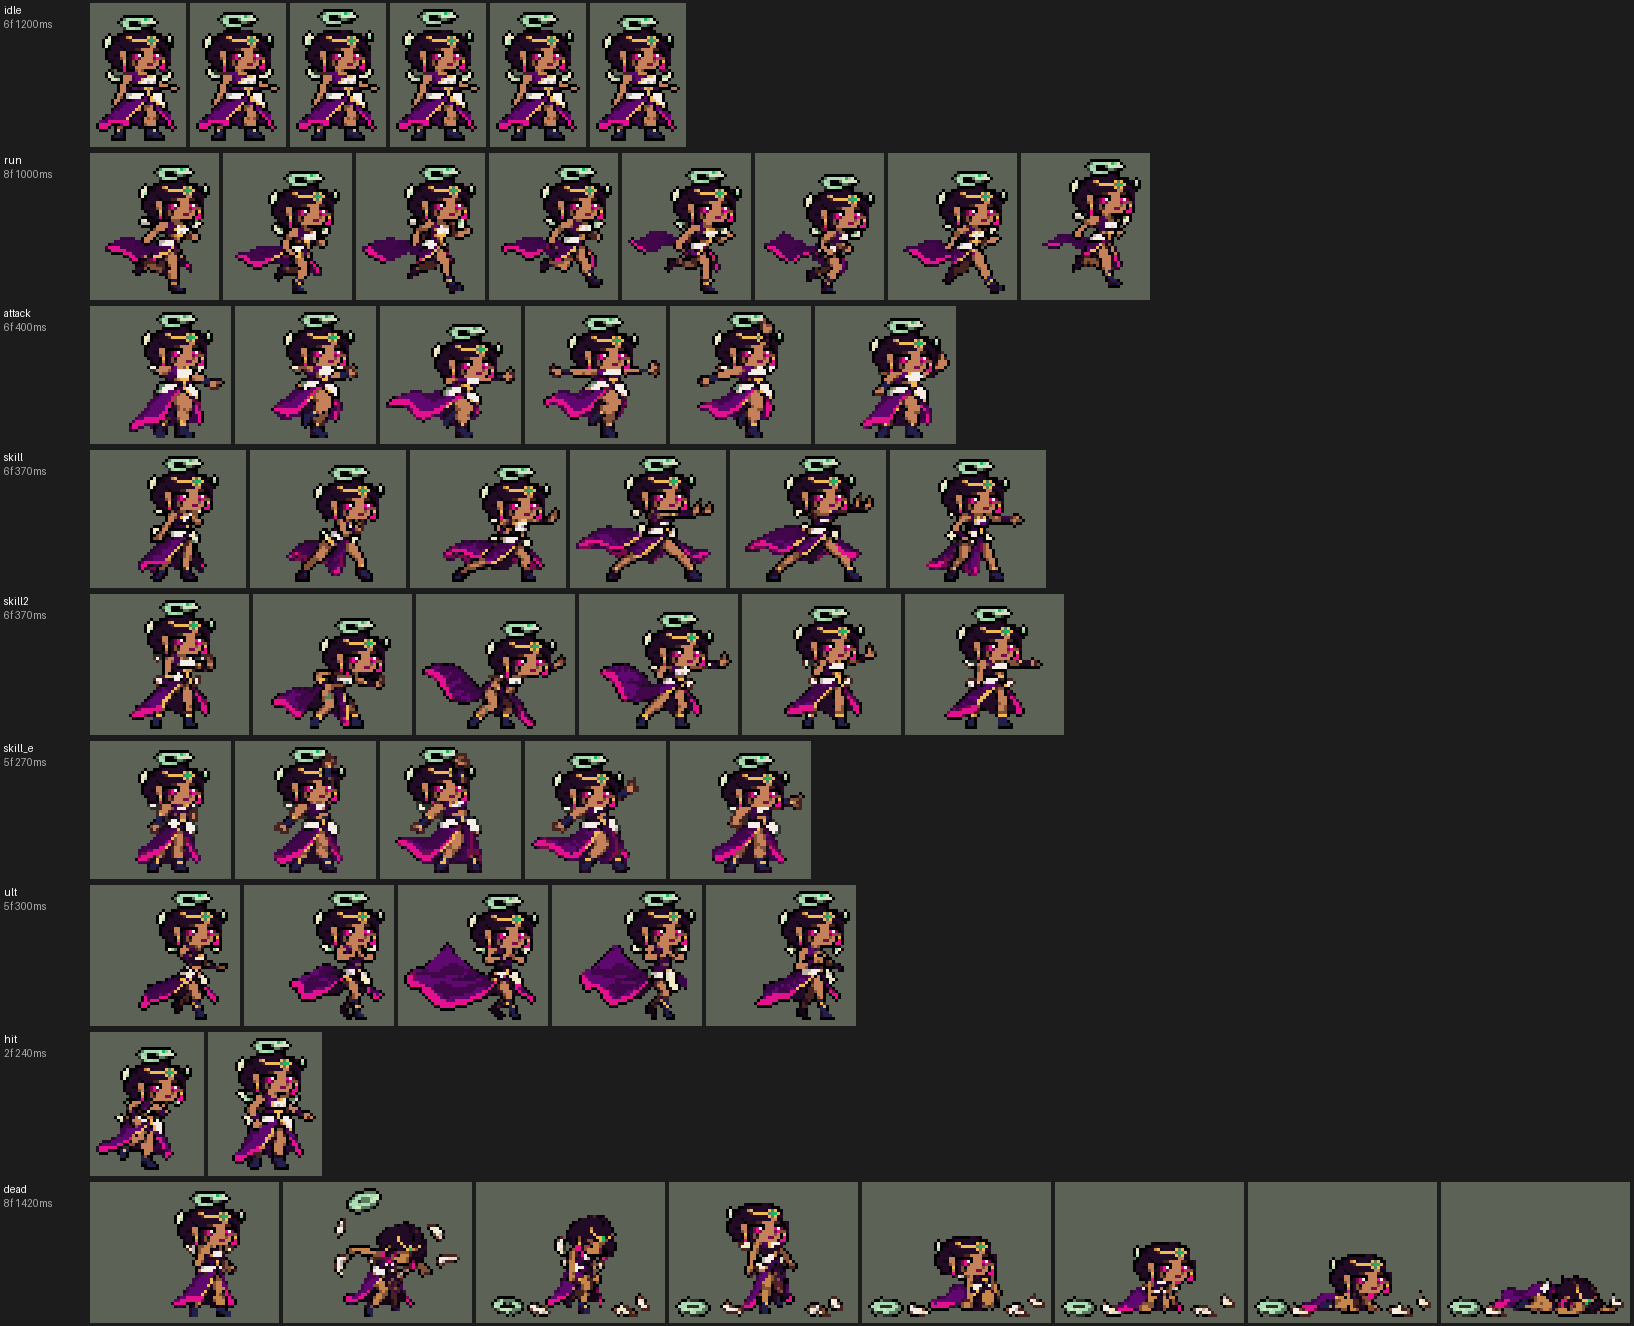
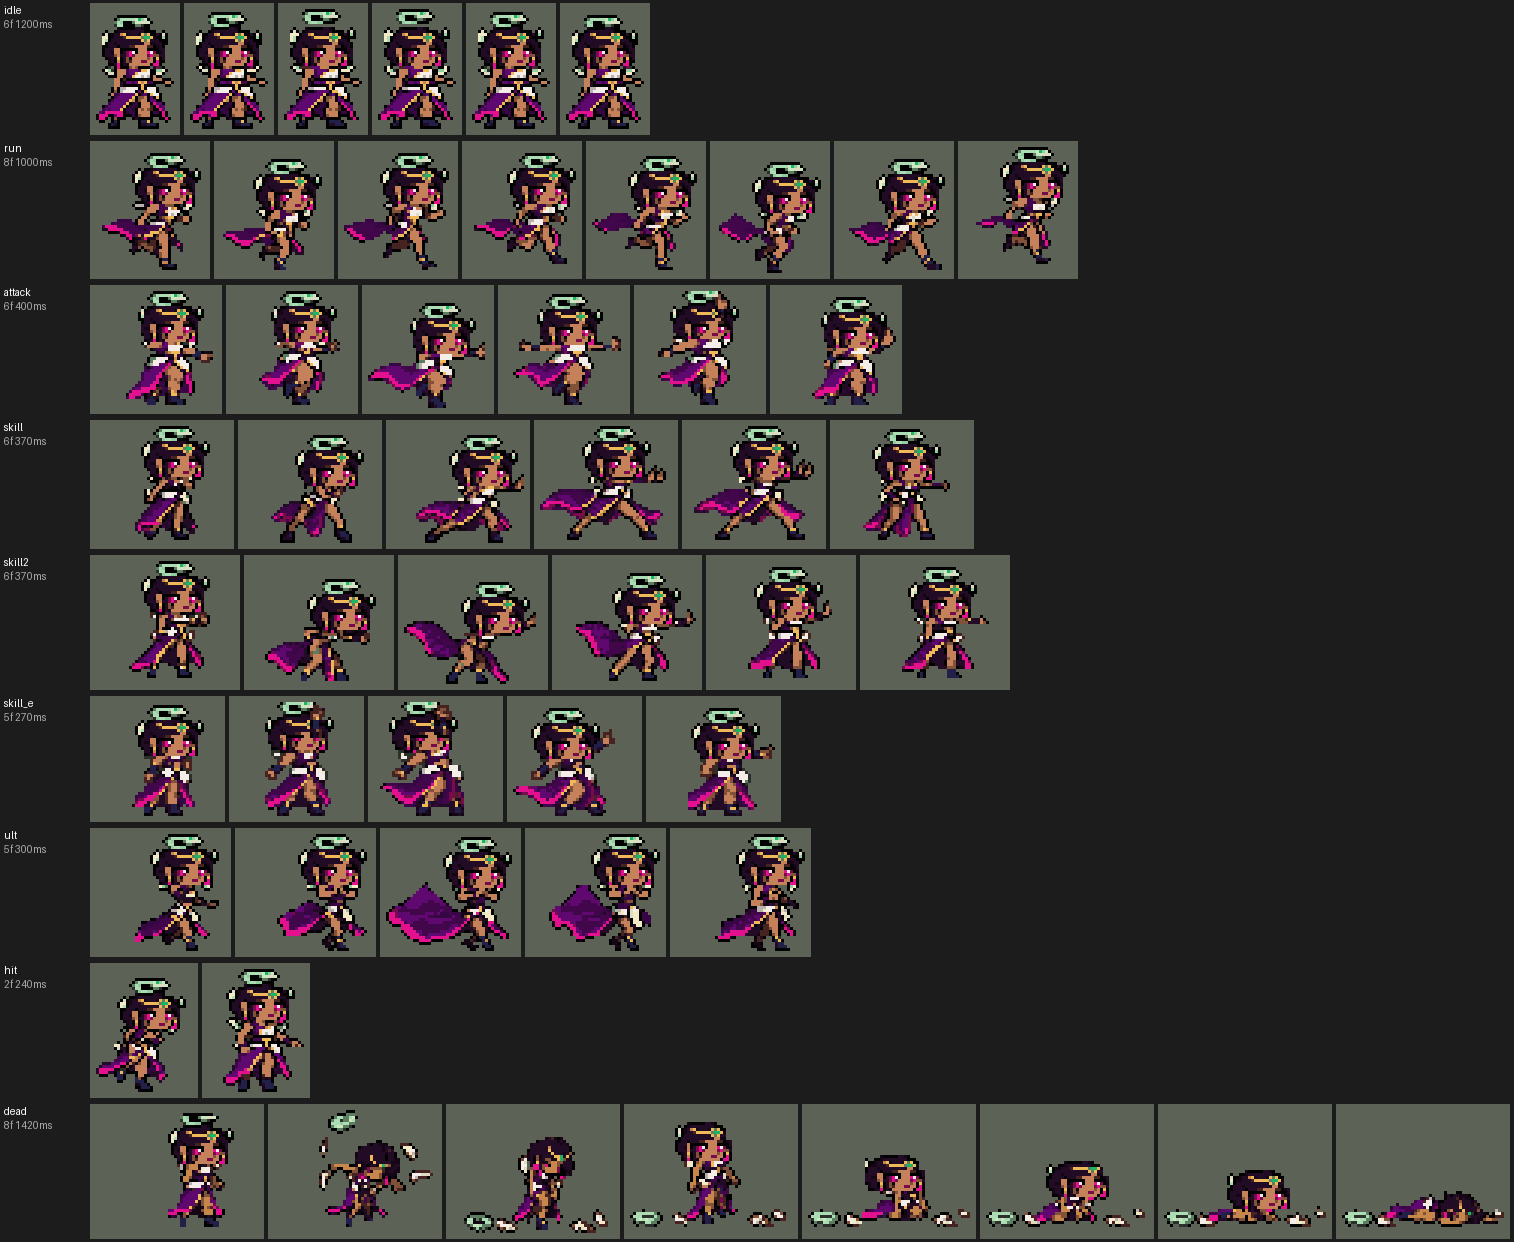
league_karma: 90% size (the user: 卡尔玛体型可以变小一点)
import_native.py SHRINK karma 0.9 (whole rows/cols out, eyes-to-chin and hands kept,
anchored on the gem); idle 42 -> 38 px; face (1,-31), banpick_center -10.

Changed region(s): [[0.0, 0.0, 0.9934, 1.0], [0.8692, 0.8873, 0.9003, 0.9179], [0.745, 0.8873, 0.7761, 0.9179]]

diff --git a/tools/art/import_native.py b/tools/art/import_native.py
@@ -652,17 +652,17 @@ TIDY = {"ahri": "clean_ahri", "janna": "clean_janna", "morgana": "clean_morgana"
 # before it breathes. A hero whose strips a rig builds from the design shrinks the design there instead (rig_xinzhao.py
 # SCALE: cut from finished frames a diagonal spear's 1:2 shaft got uneven steps); SHRINK_KEEP: skin colours (hands)
 # no line may cross, "!RRGGBB+up,down,left,right" a box no line may cross
-SHRINK = {"xerath": 0.9, "renekton": 0.9, "twitch": 0.85}      # players (2026-10-08): 「泽拉斯 ... 体型偏大」「鳄鱼体型也偏大了」
+SHRINK = {"xerath": 0.9, "renekton": 0.9, "twitch": 0.85, "karma": 0.9}      # players (2026-10-08): 「泽拉斯 ... 体型偏大」「鳄鱼体型也偏大了」; karma: the user 10-09 「卡尔玛体型可以变小一点」 (90% of 90/85)
 # no line through Xerath's face (his eyes' white-hot core) or Renekton's (his yellow eyes to his red jaw)
 # "=RRGGBB": no row through a square of that colour (Renekton's blue knee guards: a row through them halved the guard
 # and shifted his leg's stripes - 「这里是像素缺失吗」「在左脚啊」); not in his death, where the lying body's blue made
 # every low row "knee" and the cut fell on his head
-SHRINK_KEEP = {"xerath": ["!FBFCFC"], "twitch": ["#FBFDF7", "!F94714+3,0,1,1"], "renekton": ["!F9D206+2,1,2,2", "!A8161F", "=0218B2", "=010E84"]}
-SHRINK_KEEP_TAG = {"renekton": {"dead": ["!F9D206+2,1,2,2", "!A8161F"]}}
+SHRINK_KEEP = {"karma": ["!1BB663+-10,9,8,8", "C4815A", "825238"], "xerath": ["!FBFCFC"], "twitch": ["#FBFDF7", "!F94714+3,0,1,1"], "renekton": ["!F9D206+2,1,2,2", "!A8161F", "=0218B2", "=010E84"]}
+SHRINK_KEEP_TAG = {"karma": {"dead": ["!1BB663+-3,9,8,8", "C4815A", "825238"]}, "renekton": {"dead": ["!F9D206+2,1,2,2", "!A8161F"]}}
 # the lines follow the body from frame to frame, anchored on a colour only one feature has: cut at fixed canvas lines,
 # a cast or an attack that moves him took different lines of him in each frame - 「缩小后放技能的时候模型有点变形」
 # 「攻击时候也是」
-SHRINK_ANCHOR = {"xerath": "FBFCFC", "twitch": "FBFDF7", "renekton": "F9D206"}
+SHRINK_ANCHOR = {"karma": "1BB663", "xerath": "FBFCFC", "twitch": "FBFDF7", "renekton": "F9D206"}
 CROWN = {"leesin"}              # heroes whose head template starts at the crown (a braid stands above it)
 PASTED = {"masteryi"}            # steadied on the head restyle_native pasted: his raised sword is the top of every frame
 # Codex's step-2 redraw (model_strips_18, tidied by tidy_codex18.py): the approved design's head (or face) is in every

diff --git a/tools/kit/setup_karma.py b/tools/kit/setup_karma.py
@@ -37,7 +37,7 @@ S = "<#9fd8ffff>"      # shields
 G = "<#7cfc00ff>"      # health
 E = "<>"
 # champion_view: set from the imported sprite (tfm2_ase.py face; banpick_center when the idle tops -28)
-VIEW = {"face": {"x": 1, "y": -35}, "center": {"x": 0, "y": -12}}
+VIEW = {"face": {"x": 1, "y": -31}, "center": {"x": 0, "y": -11}}
 
 
 def mag(d, r):

diff --git a/README.md b/README.md
@@ -3417,7 +3417,7 @@ python tools/art/import_zed.py          # 特效；--raw assets/source/zed/codex
 | 高手连招 | **连线护体（W → E）**：连线连上英雄且鼓舞就绪时立刻给自己套盾加速（保留梵咒给下一个技能）；**定身接灵光闪耀（W → RQ）**：禁锢落下时梵咒和 Q 都就绪，就朝被定住的英雄扔灵光闪耀（抛物线落点锁定，必中）；**梵咒救人（RE）**：队友被控或被贴身时梵咒直接变蔑视 |
 | 数值 | 攻击 90（+6）、法强 32（+15）、生命 1000（+92）、护甲 22（+7）、魔抗 24（+4）、移速 1000（+10）。数值是自己设计的，用 SDK 对战模拟调：辅助，对 5 个原版辅助（`priest`、`bard`、`enchanter`、`monk`、`taoist`），3 套阵容、两边各打，10 分钟。初稿 −3.38：鼓舞从没放出来（检查距离太短，ADC 站得比 30000 远）、W 多半连在小兵上；鼓舞检查放宽、W 只连英雄 7 秒一次、射程 60000、禁锢 1 → 1.67 秒、攻击 76 → 90、生命 900 → 1000 后：种子 1–12 +0.71、25–36 +0.08（同期璐璐 +1.00、娜美 +0.96、迦娜 +0.62） |
 | 亚索联动 | 卡尔玛只有减速和禁锢，没有击飞，亚索大招不受影响，不用调 |
-| 精灵图 | 9 个动作 52 帧：待机 6（玉环和骨翅上下浮动）、移动 8（英雄联盟原版 1 秒一圈）、普攻 6、Q（`skill`）6、W（`skill2`）6、E（`skill_e`）5、R（`ult`）5、受击 2、死亡 8。高 42 px（含玉环），24 色。头像截取点 (1, −35)（发顶，不是浮着的玉环），选人卡片 −7 |
+| 精灵图 | 9 个动作 52 帧：待机 6（玉环和骨翅上下浮动）、移动 8（英雄联盟原版 1 秒一圈）、普攻 6、Q（`skill`）6、W（`skill2`）6、E（`skill_e`）5、R（`ult`）5、受击 2、死亡 8。高 38 px（含玉环），24 色：用户「卡尔玛体型可以变小一点」，在 90% / 85% 里选了 90%（`import_native.py` 的 SHRINK：整行整列删、不重采样，眼睛到下巴和手不删）。头像截取点 (1, −31)（发顶，不是浮着的玉环），选人卡片 −10 |
 | 特效 | Codex 生图的 24 张，按游戏尺寸交付（`import_karma.py` 按锚点摆放、按技能时长定帧）：`league_karma_fx` 灵弹和命中、灵火 / 灵光闪耀火球（带粉色火舌）、Q 命中和减速、W 光束头、连线光段、命中、腰间灵光、锁扣、定身光环、焕发治疗光、鼓舞护盾罩上 / 护盾 / 加速、梵咒开启和准备中的光环；`league_karma_big` Q 和灵光闪耀的爆开、地上火环和整圈爆发、蔑视扩散的灵光圈。配色照英雄联盟的技能图标：翡翠青绿灵光 + 白芯，Q 带洋红粉色火舌。飞行的上下对称，其余左右对称 |
 | 音效 | 英雄联盟的音效和配音（`tools/lol/extract_karma.py`）：灵弹出手和命中、Q 出手 / 爆开、灵光闪耀爆开 / 火环、W 出手 / 禁锢、E 出手、蔑视、R；Q、W、E、R 的中文配音。版权属于 Riot Games，**不提交到仓库**，按下面的命令在本地生成 |
 | 图标 | 官方技能图标（Q / W / R），从本地客户端提取，缩到 64×64；E 自动，没有技能位 |
@@ -3427,10 +3427,10 @@ python tools/art/import_zed.py          # 特效；--raw assets/source/zed/codex
 ```bash
 python tools/lol/extract_karma.py --lol "D:\WeGameApps\lol" --vgmstream "<vgmstream-cli.exe 路径>"
 python tools/kit/build_karma.py         # 技能数据，数字都在脚本的参数表 P 里；--nodes 看每棵技能树的节点数
-python tools/kit/setup_karma.py --face 1,-35 --banpick -7   # 五种语言的文字、音效配置、共享文件里她的键
+python tools/kit/setup_karma.py --face 1,-31 --banpick -10   # 五种语言的文字、音效配置、共享文件里她的键
 python tools/art/design_karma.py --rebuild --final   # 造型：Codex 原稿按格读回、删到 42 行，加上脸和眼睛的修改
 python tools/art/fix_karma_strips.py    # 动作：Codex 照英雄联盟原版整人重画的动作条 + 定稿的头
-python tools/art/import_native.py --hero karma
+python tools/art/import_native.py --hero karma   # 也把她缩到 90%
 python tools/art/import_karma.py        # 特效
 ```
 
